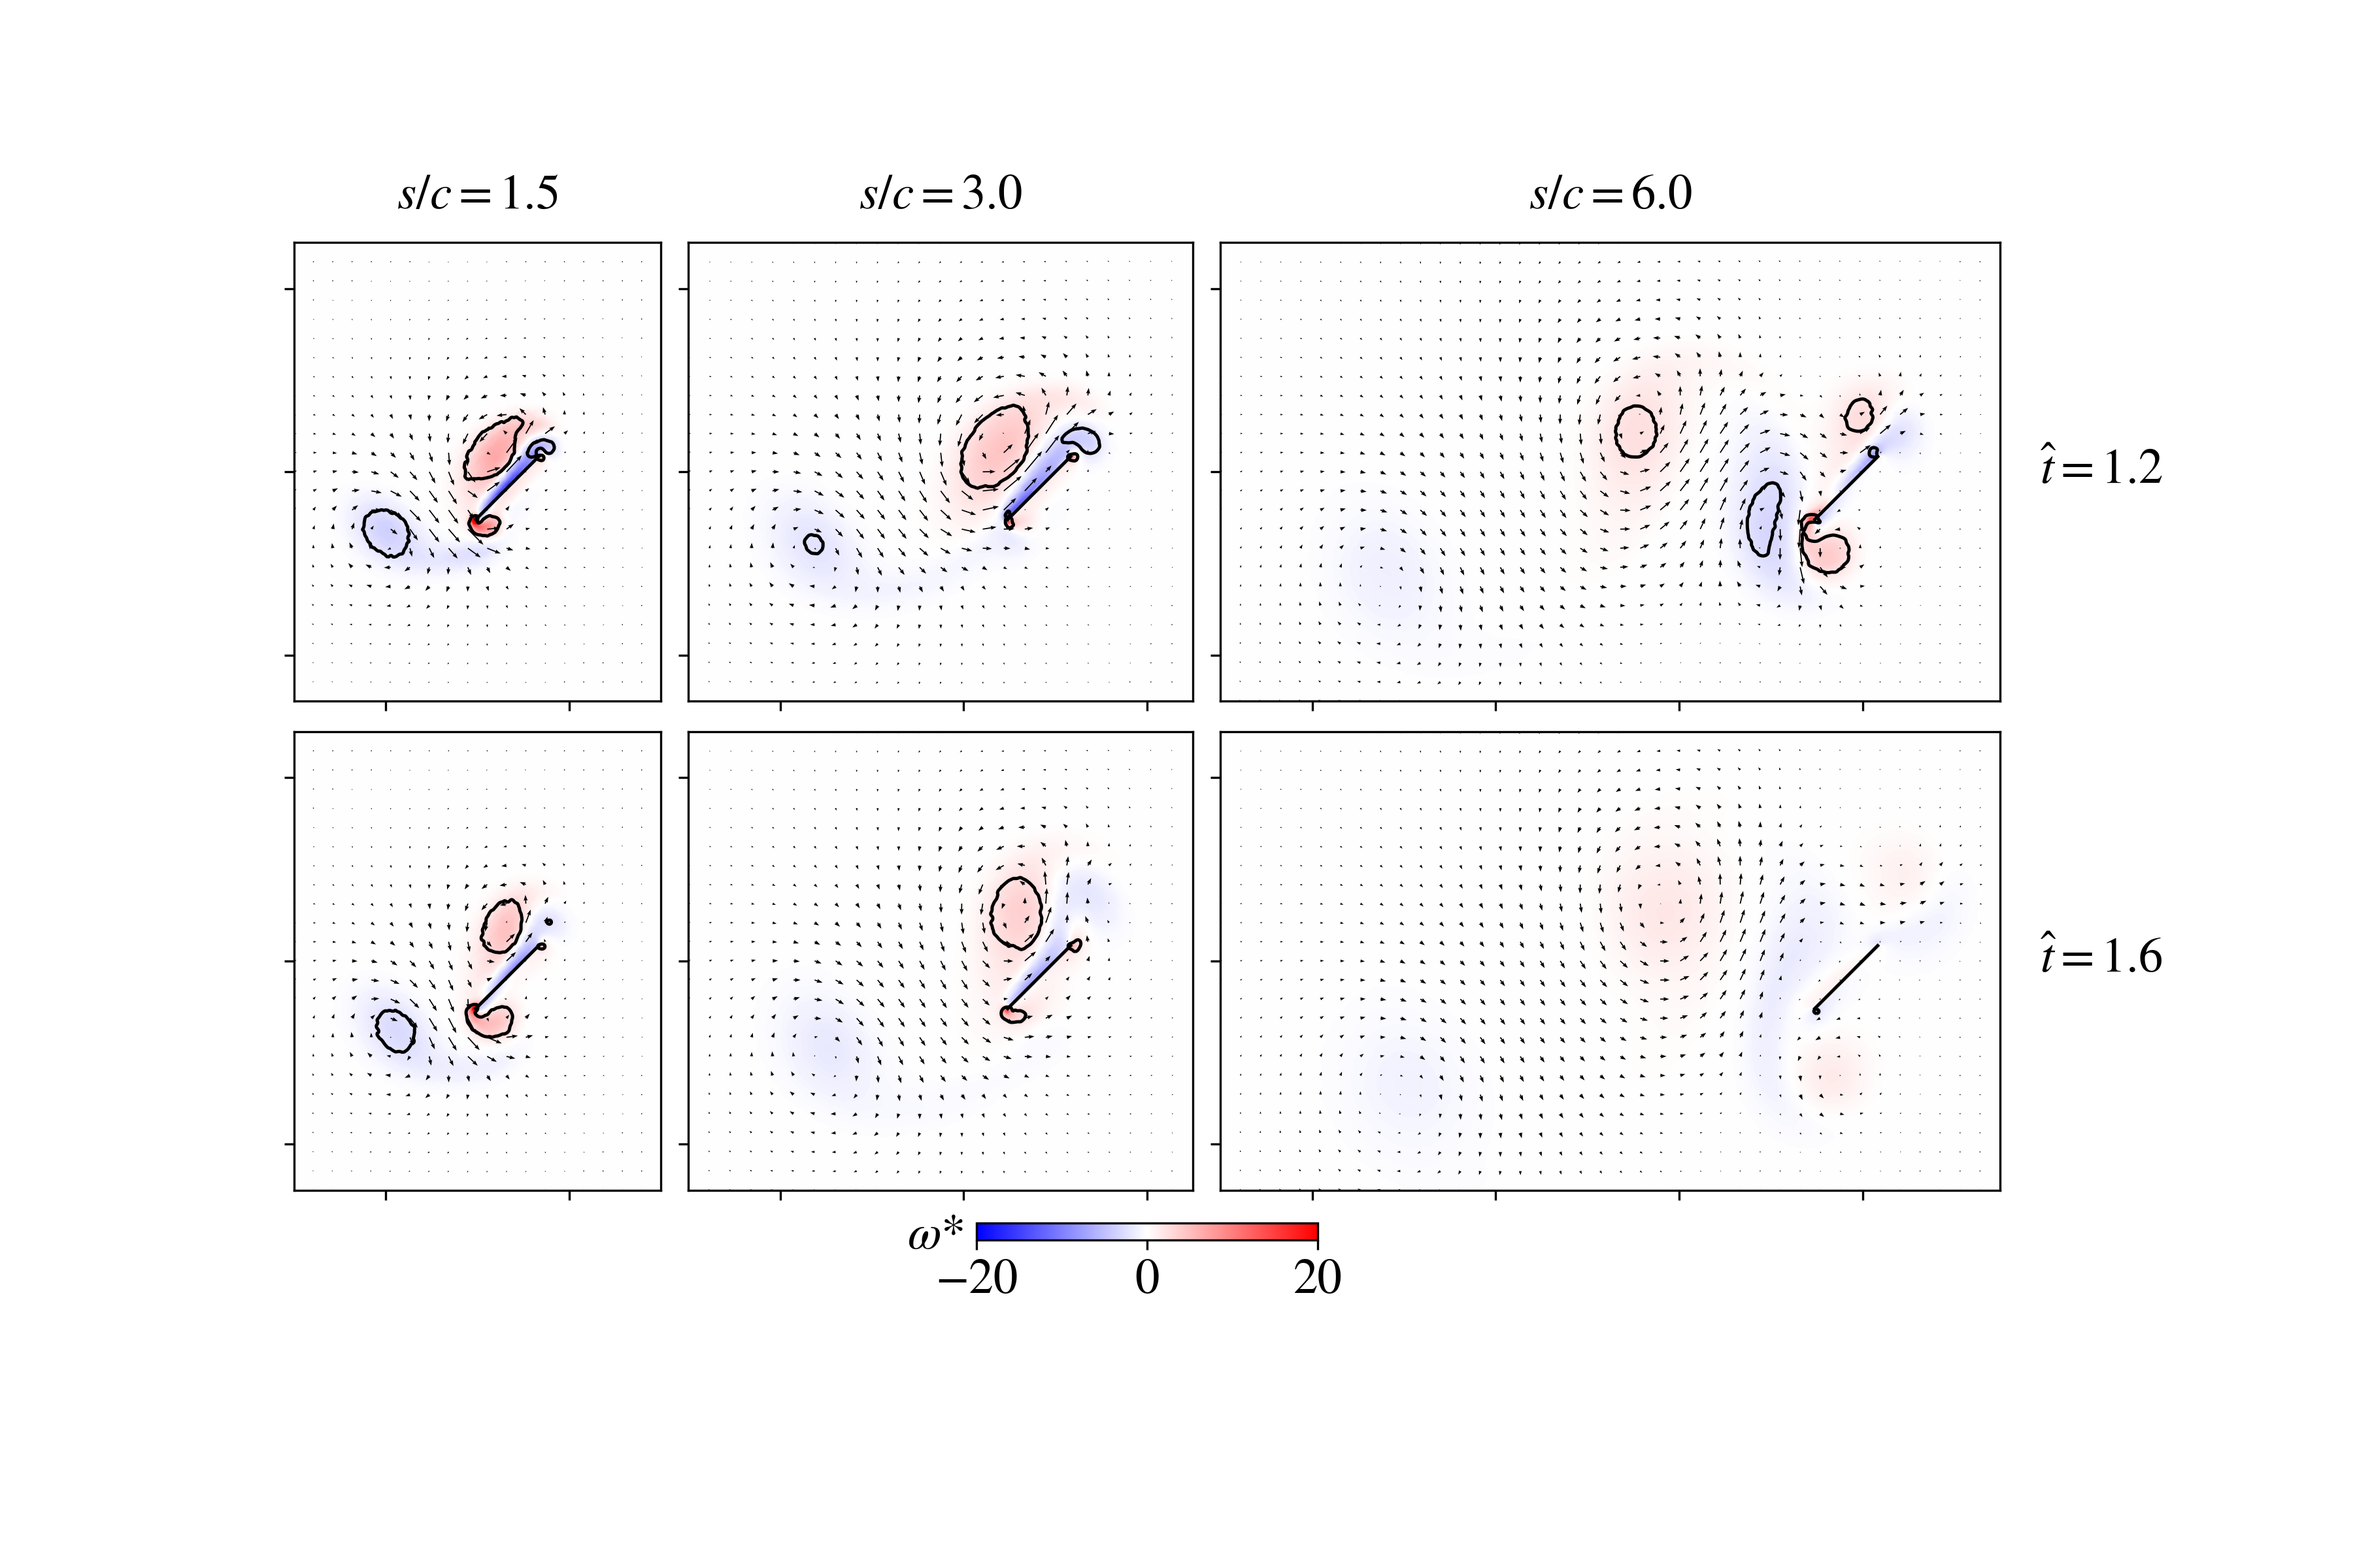
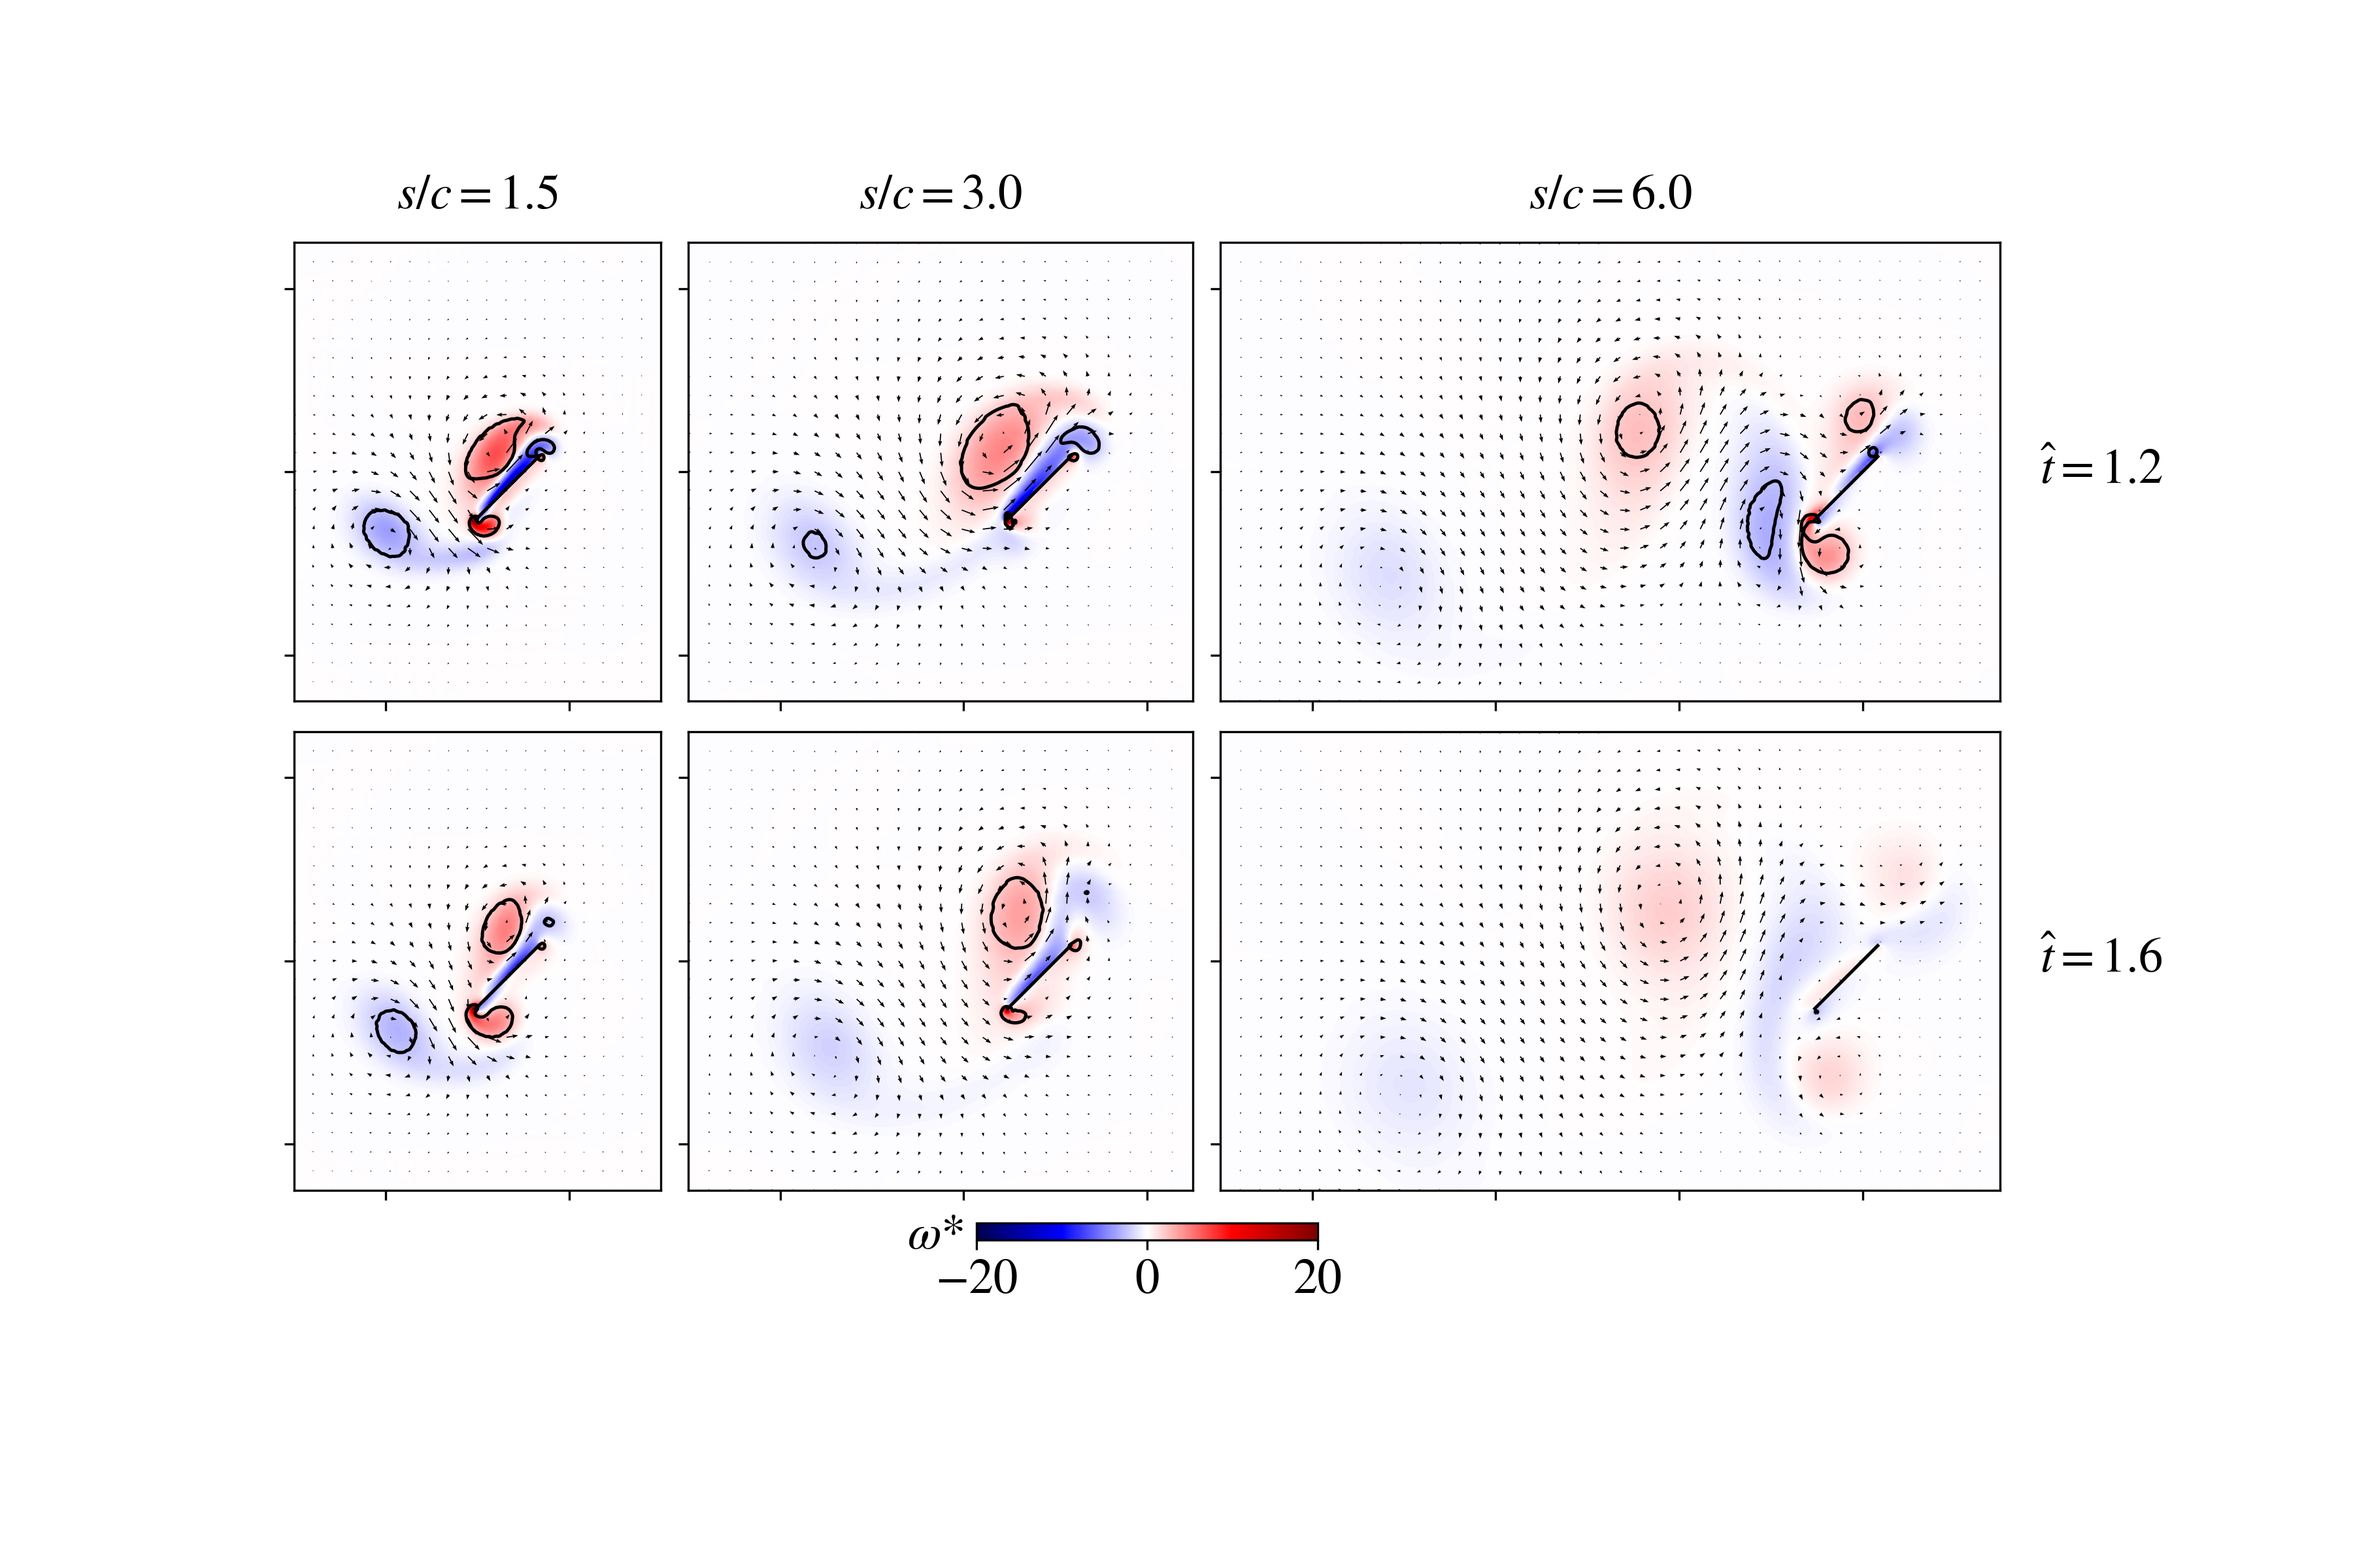
updated wake convection figures re5000

diff --git a/wake_convection_figures/figure_mesh_and_convergence/mesh_convergence_figure.py b/wake_convection_figures/figure_mesh_and_convergence/mesh_convergence_figure.py
@@ -4,17 +4,17 @@ import os
 from mcplotting_functions import read_cfd_data, cf_plotter, mesh_plotter
 #-------------input plot control----------
 cfd_data_list = [
-    # 'Re100.0_stroke6.0_acf0.25_pf0.25_pa90.0_basic',
-    # 'Re100.0_stroke6.0_acf0.25_pf0.25_pa90.0_sc',
-    # 'Re100.0_stroke6.0_acf0.25_pf0.25_pa90.0_tc',
-    'Re100.0_stroke6.0_acf0.25_pf0.25_pa90.0_sctc'
+    'Re5000.0_stroke6.0_acf0.25_pf0.25_pa90.0_basic',
+    'Re5000.0_stroke6.0_acf0.25_pf0.25_pa90.0_sc',
+    'Re5000.0_stroke6.0_acf0.25_pf0.25_pa90.0_tc',
+    'Re5000.0_stroke6.0_acf0.25_pf0.25_pa90.0_sctc'
 ]
 #-----------------------------------------
 legends = [
     r'mesh1, $\Delta t$ = 1e-3',
-    # r'mesh2, $\Delta t$ = 1e-3',
-    # r'mesh1, $\Delta t$ = 5e-4',
-    # r'mesh2, $\Delta t$ = 5e-4'
+    r'mesh2, $\Delta t$ = 1e-3',
+    r'mesh1, $\Delta t$ = 5e-4',
+    r'mesh2, $\Delta t$ = 5e-4'
 ]
 # legends = [
 # r'mesh1, $\Delta t$ = 1e-3',

diff --git a/wake_convection_figures/figure_wake_convection_flow/flow_field_figure.py b/wake_convection_figures/figure_wake_convection_flow/flow_field_figure.py
@@ -20,14 +20,14 @@ res_vector_sc15 = [20, 25]
 res_vector_sc30 = [25, 25]
 res_vector_sc60 = [40, 25]
 resolution_vector = [res_vector_sc15, res_vector_sc30, res_vector_sc60]
-time_to_plot = [1.2, 1.6]  #---time instances to plot--
+time_to_plot = [1.2, 1.4]  #---time instances to plot--
 #--------------------------------------
 Uref = [1.786, 3.571, 7.143]  #--ref velocity--
 data_time_increment = 0.1
 #--------data parameters------------
-Re = 10000.0
+Re = 100.0
 stroke = [1.5, 3.0, 6.0]
-pa = 0
+pa = 90
 #-----------------------------------
 windows = [window_sc15, window_sc30, window_sc60]
 marksc = [r'$s/c = ' + '{0:.1f}'.format(x) + '$' for x in stroke]

diff --git a/wake_convection_figures/figure_transient_force/transientf_figure.py b/wake_convection_figures/figure_transient_force/transientf_figure.py
@@ -4,8 +4,8 @@ import os
 from tfplotting_functions import cf_plotter, read_cfd_data
 
 #-------------input plot control----------
-pa = 45
-Re = [100, 1000, 10000]
+pa = 90
+Re = [100, 1000, 5000]
 stroke = [1.5, 3.0, 6.0]
 at = [0.25]
 pt = [0.25]
@@ -36,8 +36,8 @@ if pa == 0:
     time_to_plot = [0.0, 2.0]
 else:
     time_to_plot = [1.0, 2.0]
-# coeffs_show_range = [-7.0, 7.0]
-coeffs_show_range = [-10.0, 4.0]
+coeffs_show_range = [-7.0, 7.0]
+# coeffs_show_range = [-10.0, 4.0]
 cycle_time = 1.0
 #---------------------------------------
 cwd = os.getcwd()

diff --git a/wake_convection_figures/figure_wake_convection_flow/field_processing_finctions.py b/wake_convection_figures/figure_wake_convection_flow/field_processing_finctions.py
@@ -152,7 +152,8 @@ def single_plot_field(images, axto_plot, window, grid_x, grid_y, sImgdata,
     """plot one single field data"""
     images.append(
         axto_plot.imshow(sImgdata,
-                         cmap='bwr',
+                         # cmap='bwr',
+                         cmap='seismic',
                          norm=imnorm,
                          aspect='equal',
                          extent=window,

diff --git a/wake_convection_figures/figure_wake_structure_diffpa/field_processing_finctions.py b/wake_convection_figures/figure_wake_structure_diffpa/field_processing_finctions.py
@@ -152,7 +152,8 @@ def single_plot_field(images, axto_plot, window, grid_x, grid_y, sImgdata,
     """plot one single field data"""
     images.append(
         axto_plot.imshow(sImgdata,
-                         cmap='bwr',
+                         # cmap='bwr',
+                         cmap='seismic',
                          norm=imnorm,
                          aspect='equal',
                          extent=window,

diff --git a/wake_convection_figures/figure_wake_structure_pa0/field_processing_finctions.py b/wake_convection_figures/figure_wake_structure_pa0/field_processing_finctions.py
@@ -152,7 +152,8 @@ def single_plot_field(images, axto_plot, window, grid_x, grid_y, sImgdata,
     """plot one single field data"""
     images.append(
         axto_plot.imshow(sImgdata,
-                         cmap='bwr',
+                         # cmap='bwr',
+                         cmap='seismic',
                          norm=imnorm,
                          aspect='equal',
                          extent=window,

diff --git a/wake_convection_figures/figure_wake_structure_pa0/flow_field_figure.py b/wake_convection_figures/figure_wake_structure_pa0/flow_field_figure.py
@@ -24,7 +24,7 @@ resolution_vector = [res_vector_sc15, res_vector_sc30, res_vector_sc60]
 Uref = [1.786, 3.571, 7.143]  #--ref velocity--
 data_time_increment = 0.1
 #--------data parameters------------
-Re = [100.0, 1000.0, 10000.0]
+Re = [100.0, 1000.0, 5000.0]
 stroke = [1.5, 3.0, 6.0]
 pa = [0.0]
 #-----------------------------------

diff --git a/wake_convection_figures/figure_wake_structure_diffpa/flow_field_figure.py b/wake_convection_figures/figure_wake_structure_diffpa/flow_field_figure.py
@@ -24,7 +24,7 @@ resolution_vector = [res_vector_sc15, res_vector_sc30, res_vector_sc60]
 Uref = [1.786, 3.571, 7.143]  #--ref velocity--
 data_time_increment = 0.1
 #--------data parameters------------
-Re = [10000.0]
+Re = [5000.0]
 stroke = [1.5, 3.0, 6.0]
 pa = [45.0, 90.0]
 #-----------------------------------
